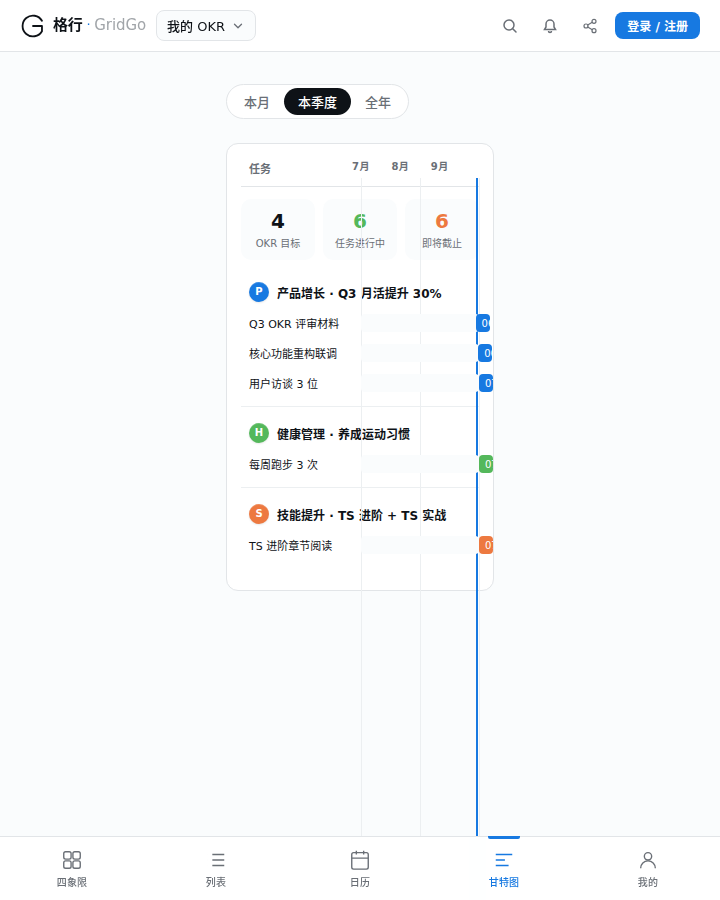
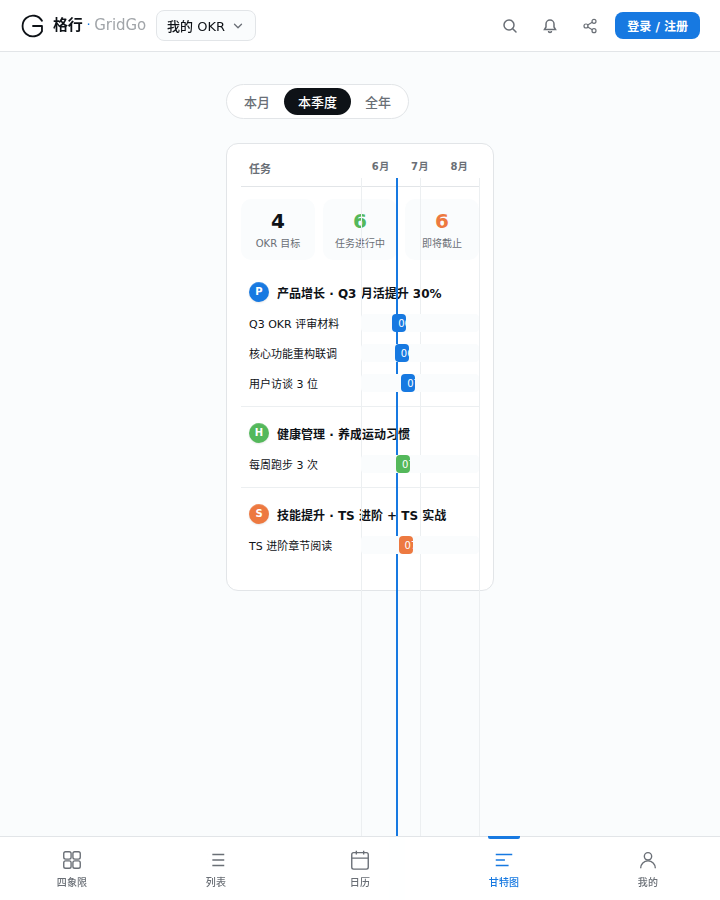
F-014/F-015 视觉修：日历标题 + Gantt 用今天往后 3 个月
**日历**：
- .gg-cal-month 加 white-space:nowrap（'2026 年 6 月' 不再换行）
- .gg-cal-nav 加 flex-shrink:0

**Gantt 重大修正**：
- 之前用日历季度 (4-6月)，seed 任务都是这周到期 → bars 全在右边
- 改为'今天往后 3 个月'作为本季度范围，bars 分散在视图
- 季度 summary 改为 (OKR 目标 / 任务进行中 / 即将截止)
- gantt 区域用 OKR letter pill (P/H/S/$)

build: 115KB gz

diff --git a/apps/h5/src/views/GanttView.tsx b/apps/h5/src/views/GanttView.tsx
@@ -5,11 +5,8 @@ import type { OkrCategory, Task, Okr } from '@gridgo/types'
 
 type GanttSub = 'month' | 'quarter' | 'year'
 
-const CAT_LABELS: Record<OkrCategory, string> = {
-  product: 'P',
-  health: 'H',
-  skill: 'S',
-  finance: '$',
+const CAT_LETTER: Record<OkrCategory, string> = {
+  product: 'P', health: 'H', skill: 'S', finance: '$',
 }
 
 export function GanttView() {
@@ -46,8 +43,8 @@ function GanttMonth({ tasks, okrs }: { tasks: Task[]; okrs: Okr[] }) {
   const monthStart = new Date(now.getFullYear(), now.getMonth(), 1)
   const monthEnd = new Date(now.getFullYear(), now.getMonth() + 1, 1)
   const totalDays = Math.round((monthEnd.getTime() - monthStart.getTime()) / 86400000)
-  const weeks = Math.ceil(totalDays / 7)
-  const weekMarkers = Array.from({ length: weeks }, (_, i) => {
+  const weekCount = Math.ceil(totalDays / 7)
+  const weekMarkers = Array.from({ length: weekCount }, (_, i) => {
     const d = new Date(monthStart)
     d.setDate(monthStart.getDate() + i * 7)
     return { label: `${d.getMonth() + 1}/${d.getDate()}`, pct: ((i * 7) / totalDays) * 100 }
@@ -61,9 +58,6 @@ function GanttMonth({ tasks, okrs }: { tasks: Task[]; okrs: Okr[] }) {
           {weekMarkers.map((m, i) => (
             <div key={i} className="gg-gantt-month" style={{ left: `${m.pct}%` }}>{m.label}</div>
           ))}
-          {weekMarkers.map((_, i) => (
-            <div key={`g-${i}`} className="gg-gantt-grid-line" style={{ left: `${((i * 7) / totalDays) * 100}%` }} />
-          ))}
         </div>
       </div>
       {okrs.map((o) => {
@@ -72,7 +66,7 @@ function GanttMonth({ tasks, okrs }: { tasks: Task[]; okrs: Okr[] }) {
         return (
           <div key={o.id} className="gg-gantt-okr">
             <div className="gg-gantt-okr-head">
-              <span className={`gg-okr-dot gg-okr-dot-lg ${okrColorClass[o.category as OkrCategory]}`}>{CAT_LABELS[o.category as OkrCategory]}</span>
+              <span className={`gg-okr-dot-lg gg-okr-dot-${o.category}`}>{CAT_LETTER[o.category]}</span>
               {o.title}
             </div>
             {items.map((t) => <GanttBarRow key={t.id} t={t} okr={o} rangeStart={monthStart} totalDays={totalDays} />)}
@@ -85,11 +79,16 @@ function GanttMonth({ tasks, okrs }: { tasks: Task[]; okrs: Okr[] }) {
 
 function GanttQuarter({ tasks, okrs }: { tasks: Task[]; okrs: Okr[] }) {
   const now = new Date()
-  const qStart = new Date(now.getFullYear(), Math.floor(now.getMonth() / 3) * 3, 1)
+  // 用"今天往后 3 个月"作为本季度范围
+  const qStart = new Date(now.getFullYear(), now.getMonth(), 1)
   const qEnd = new Date(qStart)
   qEnd.setMonth(qStart.getMonth() + 3)
   const totalDays = Math.round((qEnd.getTime() - qStart.getTime()) / 86400000)
-  const months = ['7月', '8月', '9月']
+  const monthLabels = [
+    `${qStart.getMonth() + 1}月`,
+    `${(qStart.getMonth() + 1) % 12 + 1}月`,
+    `${(qStart.getMonth() + 2) % 12 + 1}月`,
+  ]
   const monthPcts = [0, 33.33, 66.66]
   const doing = tasks.filter((t) => !t.done && t.due_date).length
   const urgent = tasks.filter((t) => t.due_date && new Date(t.due_date).getTime() < Date.now() + 7 * 86400000).length
@@ -99,8 +98,8 @@ function GanttQuarter({ tasks, okrs }: { tasks: Task[]; okrs: Okr[] }) {
       <div className="gg-gantt-header">
         <div className="gg-gantt-task-label">任务</div>
         <div className="gg-gantt-bars">
-          {months.map((m, i) => (
-            <div key={i} className="gg-gantt-month" style={{ left: `${monthPcts[i]}%` }}>{m}</div>
+          {monthLabels.map((m, i) => (
+            <div key={i} className="gg-gantt-month" style={{ left: `${monthPcts[i] + 16.66}%` }}>{m}</div>
           ))}
           <div className="gg-gantt-grid-line" style={{ left: 0 }} />
           <div className="gg-gantt-grid-line" style={{ left: '50%' }} />
@@ -128,7 +127,7 @@ function GanttQuarter({ tasks, okrs }: { tasks: Task[]; okrs: Okr[] }) {
         return (
           <div key={o.id} className="gg-gantt-okr">
             <div className="gg-gantt-okr-head">
-              <span className={`gg-okr-dot gg-okr-dot-lg ${okrColorClass[o.category as OkrCategory]}`}>{CAT_LABELS[o.category as OkrCategory]}</span>
+              <span className={`gg-okr-dot-lg gg-okr-dot-${o.category}`}>{CAT_LETTER[o.category]}</span>
               {o.title}
             </div>
             {items.map((t) => <GanttBarRow key={t.id} t={t} okr={o} rangeStart={qStart} totalDays={totalDays} showDuration />)}
@@ -142,9 +141,8 @@ function GanttQuarter({ tasks, okrs }: { tasks: Task[]; okrs: Okr[] }) {
 function GanttYear({ okrs }: { okrs: Okr[] }) {
   const now = new Date()
   const quarterLabels = ['Q1', 'Q2', 'Q3', 'Q4']
-  const quarterPcts = [0, 25, 50, 75]
-  const completedQ = Math.floor(now.getMonth() / 3)
-  const currentQ = completedQ
+  const quarterPcts = [12.5, 37.5, 62.5, 87.5]
+  const currentQ = Math.floor(now.getMonth() / 3)
 
   return (
     <div className="gg-gantt">
@@ -152,16 +150,16 @@ function GanttYear({ okrs }: { okrs: Okr[] }) {
         <div className="gg-gantt-task-label">OKR</div>
         <div className="gg-gantt-bars">
           {quarterLabels.map((q, i) => (
-            <div key={i} className="gg-gantt-month" style={{ left: `${quarterPcts[i] + 12.5}%` }}>{q}</div>
+            <div key={i} className="gg-gantt-month" style={{ left: `${quarterPcts[i]}%` }}>{q}</div>
           ))}
           {quarterPcts.map((p, i) => (
-            <div key={`g-${i}`} className="gg-gantt-grid-line" style={{ left: `${p}%` }} />
+            <div key={`g-${i}`} className="gg-gantt-grid-line" style={{ left: `${p - 12.5}%` }} />
           ))}
         </div>
       </div>
       <div className="gg-gantt-summary-cards">
         <div className="gg-gantt-summary">
-          <div className="gg-gantt-summary-num good">{completedQ}</div>
+          <div className="gg-gantt-summary-num good">{currentQ}</div>
           <div className="gg-gantt-summary-label">已完成季度</div>
         </div>
         <div className="gg-gantt-summary">
@@ -176,15 +174,15 @@ function GanttYear({ okrs }: { okrs: Okr[] }) {
       {okrs.map((o) => {
         const start = o.category === 'finance' ? 50 : 0
         const width = o.category === 'finance' ? 50 : 100
-        const cat = o.category as OkrCategory
+        const cat = o.category
         return (
           <div key={o.id} className="gg-gantt-row">
             <div className="gg-gantt-task-label">
-              <span className={`gg-okr-dot gg-okr-dot-lg ${okrColorClass[cat]}`} style={{ marginRight: 4, verticalAlign: 'middle' }}>{CAT_LABELS[cat]}</span>
+              <span className={`gg-okr-dot-lg gg-okr-dot-${cat}`} style={{ marginRight: 4, verticalAlign: 'middle' }}>{CAT_LETTER[cat]}</span>
               {o.title.split('·')[0]?.trim() || o.title}
             </div>
             <div className="gg-gantt-bar-container">
-              <div className={`gg-gantt-bar ${okrColorClass[cat]}`} style={{ left: `${start}%`, width: `${width}%` }}>
+              <div className={`gg-gantt-bar gg-okr-dot-${cat}`} style={{ left: `${start}%`, width: `${width}%` }}>
                 {width === 100 ? '全年' : 'H2 启动'}
               </div>
             </div>
@@ -198,14 +196,17 @@ function GanttYear({ okrs }: { okrs: Okr[] }) {
 function GanttBarRow({ t, okr, rangeStart, totalDays, showDuration }: { t: Task; okr: Okr; rangeStart: Date; totalDays: number; showDuration?: boolean }) {
   if (!t.due_date) return null
   const due = new Date(t.due_date)
-  const offset = Math.max(0, (due.getTime() - rangeStart.getTime()) / 86400000)
-  const left = Math.min(100, (offset / totalDays) * 100)
+  const start = new Date(t.due_date)
+  start.setDate(start.getDate() - 3) // 任务前 3 天开始
+  const offset = Math.max(0, (start.getTime() - rangeStart.getTime()) / 86400000)
+  const left = Math.min(95, (offset / totalDays) * 100)
   const width = showDuration ? Math.max(8, 12) : Math.max(2, 4)
+  const cat = okr.category
   return (
     <div className="gg-gantt-row">
       <div className="gg-gantt-task-label">{t.title}</div>
       <div className="gg-gantt-bar-container">
-        <div className={`gg-gantt-bar ${okrColorClass[okr.category as OkrCategory]}`} style={{ left: `${left}%`, width: `${width}%` }}>
+        <div className={`gg-gantt-bar gg-okr-dot-${cat}`} style={{ left: `${left}%`, width: `${width}%` }}>
           <span>{t.due_date.slice(5)}</span>
         </div>
       </div>

diff --git a/apps/h5/src/styles.css b/apps/h5/src/styles.css
@@ -840,7 +840,7 @@
   padding: 0 4px;
   margin-bottom: 12px;
 }
-.gg-cal-month { font-family: var(--gg-font-display); font-size: 18px; font-weight: 600; letter-spacing: -0.02em; }
+.gg-cal-month { font-family: var(--gg-font-display); font-size: 18px; font-weight: 600; letter-spacing: -0.02em; white-space: nowrap; }
 .gg-cal-nav {
   width: 32px; height: 32px;
   border-radius: var(--gg-radius-sm);
@@ -850,6 +850,7 @@
   background: transparent;
   border: 0;
   cursor: pointer;
+  flex-shrink: 0;
 }
 .gg-cal-nav:hover { background: var(--gg-surface); color: var(--gg-fg); }
 